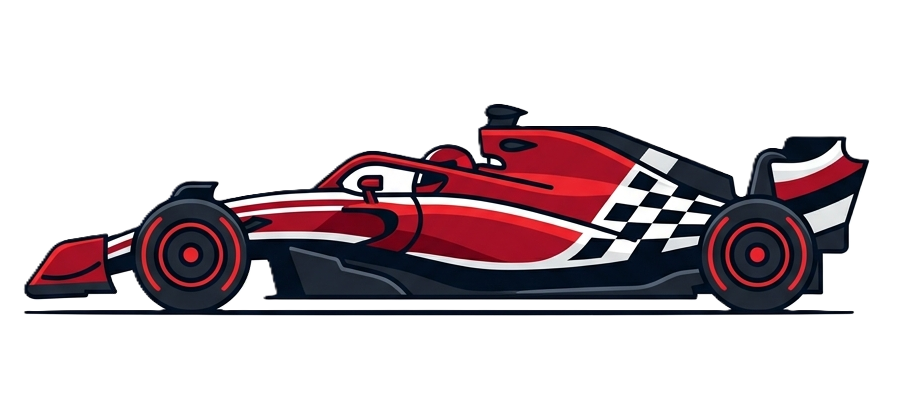
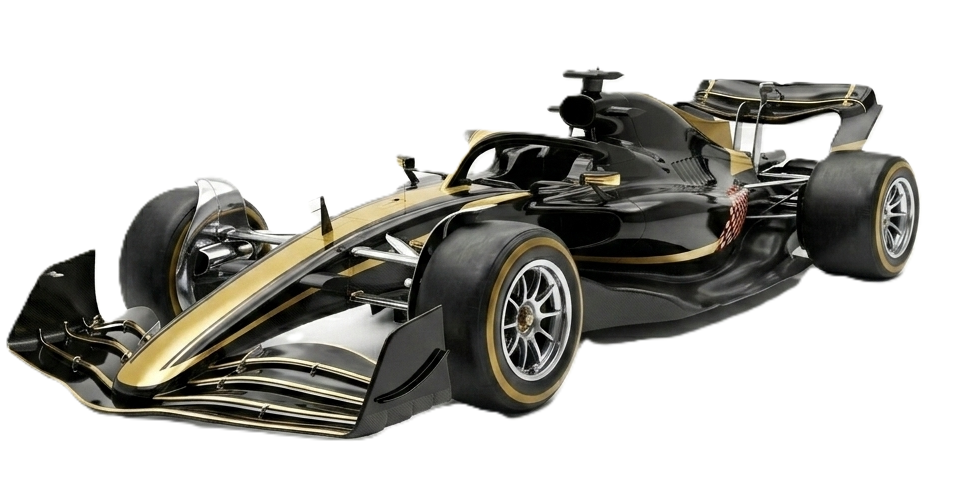
edit

diff --git a/lib/features/home/presentation/widgets/home_driver_preferences.dart b/lib/features/home/presentation/widgets/home_driver_preferences.dart
@@ -56,11 +56,14 @@ class HomeDriverPreferences extends StatelessWidget {
             builder: (context, state) {
               final cubit = context.read<HomeCubit>();
 
+              // hide grid until trip types are loaded from API
+              if (cubit.driverTripTypes.isEmpty) return const SizedBox.shrink();
+
               // filter only the preferences that are active
               final filteredPreferences = preferences
                   .asMap()
                   .entries
-                                      .where((e) => cubit.driverTripTypes.contains(e.key + 1) || e.key == 4)
+                  .where((e) => cubit.driverTripTypes.contains(e.key + 1) || e.key == 4)
                   .toList();
 
               return GridView.builder(
